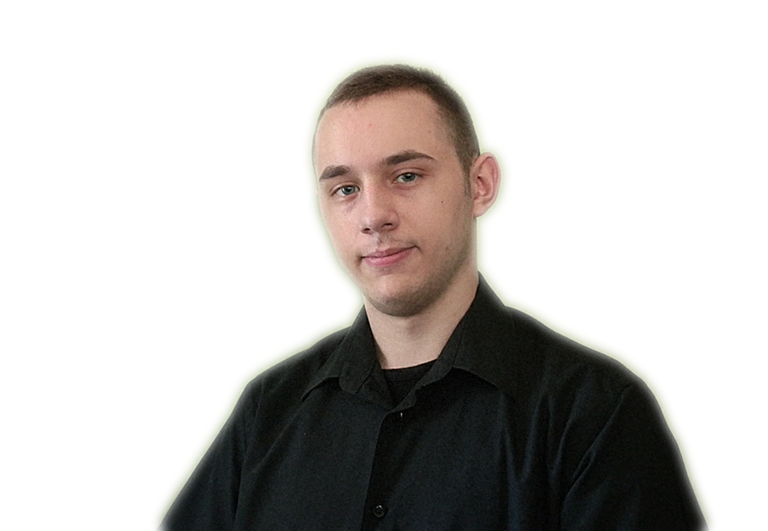
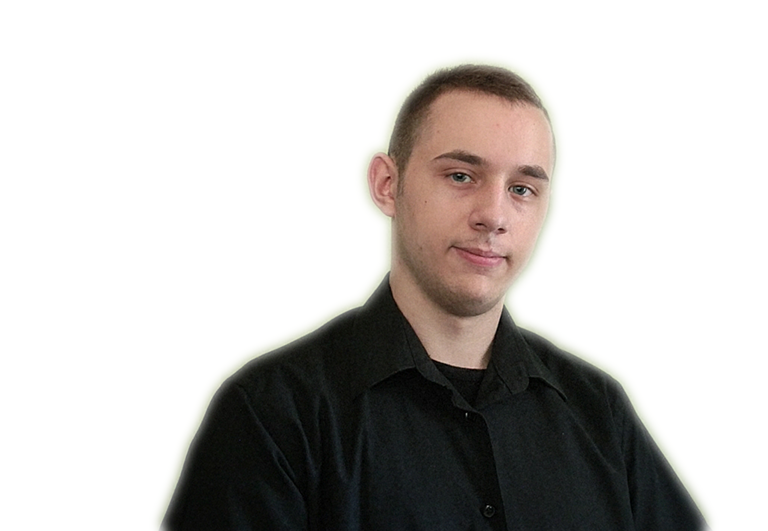
Fixes
- Changement de l'orientation de l'image de profil du CV
- Correction de fautes de frappe dans le CV et le portfolio

diff --git a/src/pages/Portfolio/views/contents/gamedev/gamedev_text.js b/src/pages/Portfolio/views/contents/gamedev/gamedev_text.js
@@ -8,7 +8,7 @@ const gamedevText = {
     firstCategoryName: `Source² Engine (Half-Life: Alyx / VR) : `,
     firstCategoryDescription: `Depuis mars 2020, je me suis intéressé au moteur Source² de Valve, utilisé dans Half-Life Alyx: notamment. Ce moteur, bien que récent, partage de nombreux aspects avec son prédécesseur, sur lequel j'ai passé beaucoup de temps au cours de ces dernières années, 
     à apprendre des techniques de Level Design. J'ai pris un immense plaisir à y retourner et à approfondir mes bases. C'est un outil que je trouve très agréable à prendre en mains. 
-    L'exemple suivant est une carte pour le jeu Half-Life Alyx sur laquelle je travail depuis un mois. Je continue mon processus d'apprentissage du moteur au fur et à mesure que je progresse sur la géométrie de la map. J'ai appris à utiliser quelques uns des outils intégrés au moteur :
+    L'exemple suivant est une carte pour le jeu Half-Life Alyx sur laquelle je travaille depuis un mois. Je continue mon processus d'apprentissage du moteur au fur et à mesure que je progresse sur la géométrie de la map. J'ai appris à utiliser quelques uns des outils intégrés au moteur :
     <br/>
     - Tile Meshing : modèles 3D programmés pour former des cheminements définis par l'utilisateur (par exemple, les tuyaux aux murs, les conduits d'aérations etc.)
     <br/>

diff --git a/src/pages/Resume/views/resume_text.js b/src/pages/Resume/views/resume_text.js
@@ -193,7 +193,7 @@ export const resumeContentText = {
     languagesSkillsTitle: `Linguistiques`,
     languagesSkillsContent: `
     <div class="content">
-        <p>Anglais : niveu courant</p>
+        <p>Anglais : niveau courant</p>
         <p>Polonais : Langue maternelle/Niveau basique (plus parlé que lu)</p>
     </div>`,
     /**/
